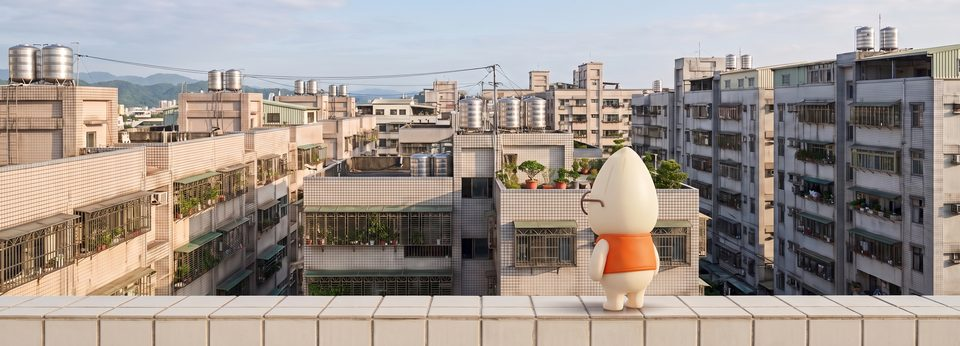
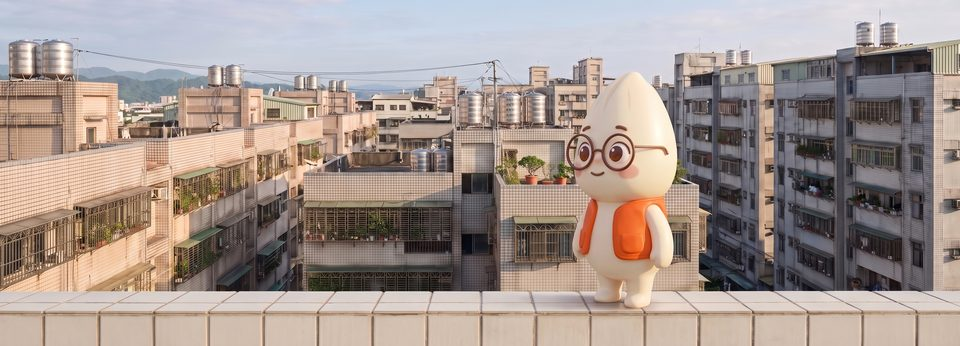
fix(uiux): 媽祖 10-02 退件 6 張米米 hero 重生其 5——視線改 3/4 側身落在畫面人／物 [nofresh]
A17 拿掉桌上文件、米米看男子（頭臉比 0.81），alt 照媽祖逐字改；A21 米米側身望遠山；
A22 看時鐘；A23 看手中信件；A24 看茶壺（米米身體局部白平衡，R−G 與牆面持平）。
A19 三次未過（第 1 次嘴角下垂、第 3 次瞳孔無高光），維持前版待裁示。

diff --git a/article-credit-record-vs-house-value.html b/article-credit-record-vs-house-value.html
@@ -226,7 +226,7 @@ src="https://www.facebook.com/tr?id=27280305434986441&ev=PageView&noscript=1"
 <div id="nav" data-theme="light"></div>
 
 <div class="art-hero">
-  <picture><source type="image/webp" srcset="img/uiux/A17/hero-mimi-article-credit-record-vs-house-value-640.webp 640w, img/uiux/A17/hero-mimi-article-credit-record-vs-house-value-960.webp 960w, img/uiux/A17/hero-mimi-article-credit-record-vs-house-value-1920.webp 1920w" sizes="100vw"><img src="img/uiux/A17/hero-mimi-article-credit-record-vs-house-value-960.jpg" width="960" height="407" alt="示意情境：中年男子背對鏡頭坐在自家餐桌旁，米米公仔站在桌上陪他看文件" class="art-hero-img" fetchpriority="high"></picture>
+  <picture><source type="image/webp" srcset="img/uiux/A17/hero-mimi-article-credit-record-vs-house-value-640.webp 640w, img/uiux/A17/hero-mimi-article-credit-record-vs-house-value-960.webp 960w, img/uiux/A17/hero-mimi-article-credit-record-vs-house-value-1920.webp 1920w" sizes="100vw"><img src="img/uiux/A17/hero-mimi-article-credit-record-vs-house-value-960.jpg" width="960" height="407" alt="示意情境：中年男子背對鏡頭坐在自家餐桌旁，米米公仔站在桌上陪他看向窗外" class="art-hero-img" fetchpriority="high"></picture>
   <div class="art-hero-body">
     <div class="art-breadcrumb">
       <a href="/">首頁</a> › <a href="knowledge.html">知識專欄</a> › 銀行說不行，房子的價值就跟著歸零嗎？
